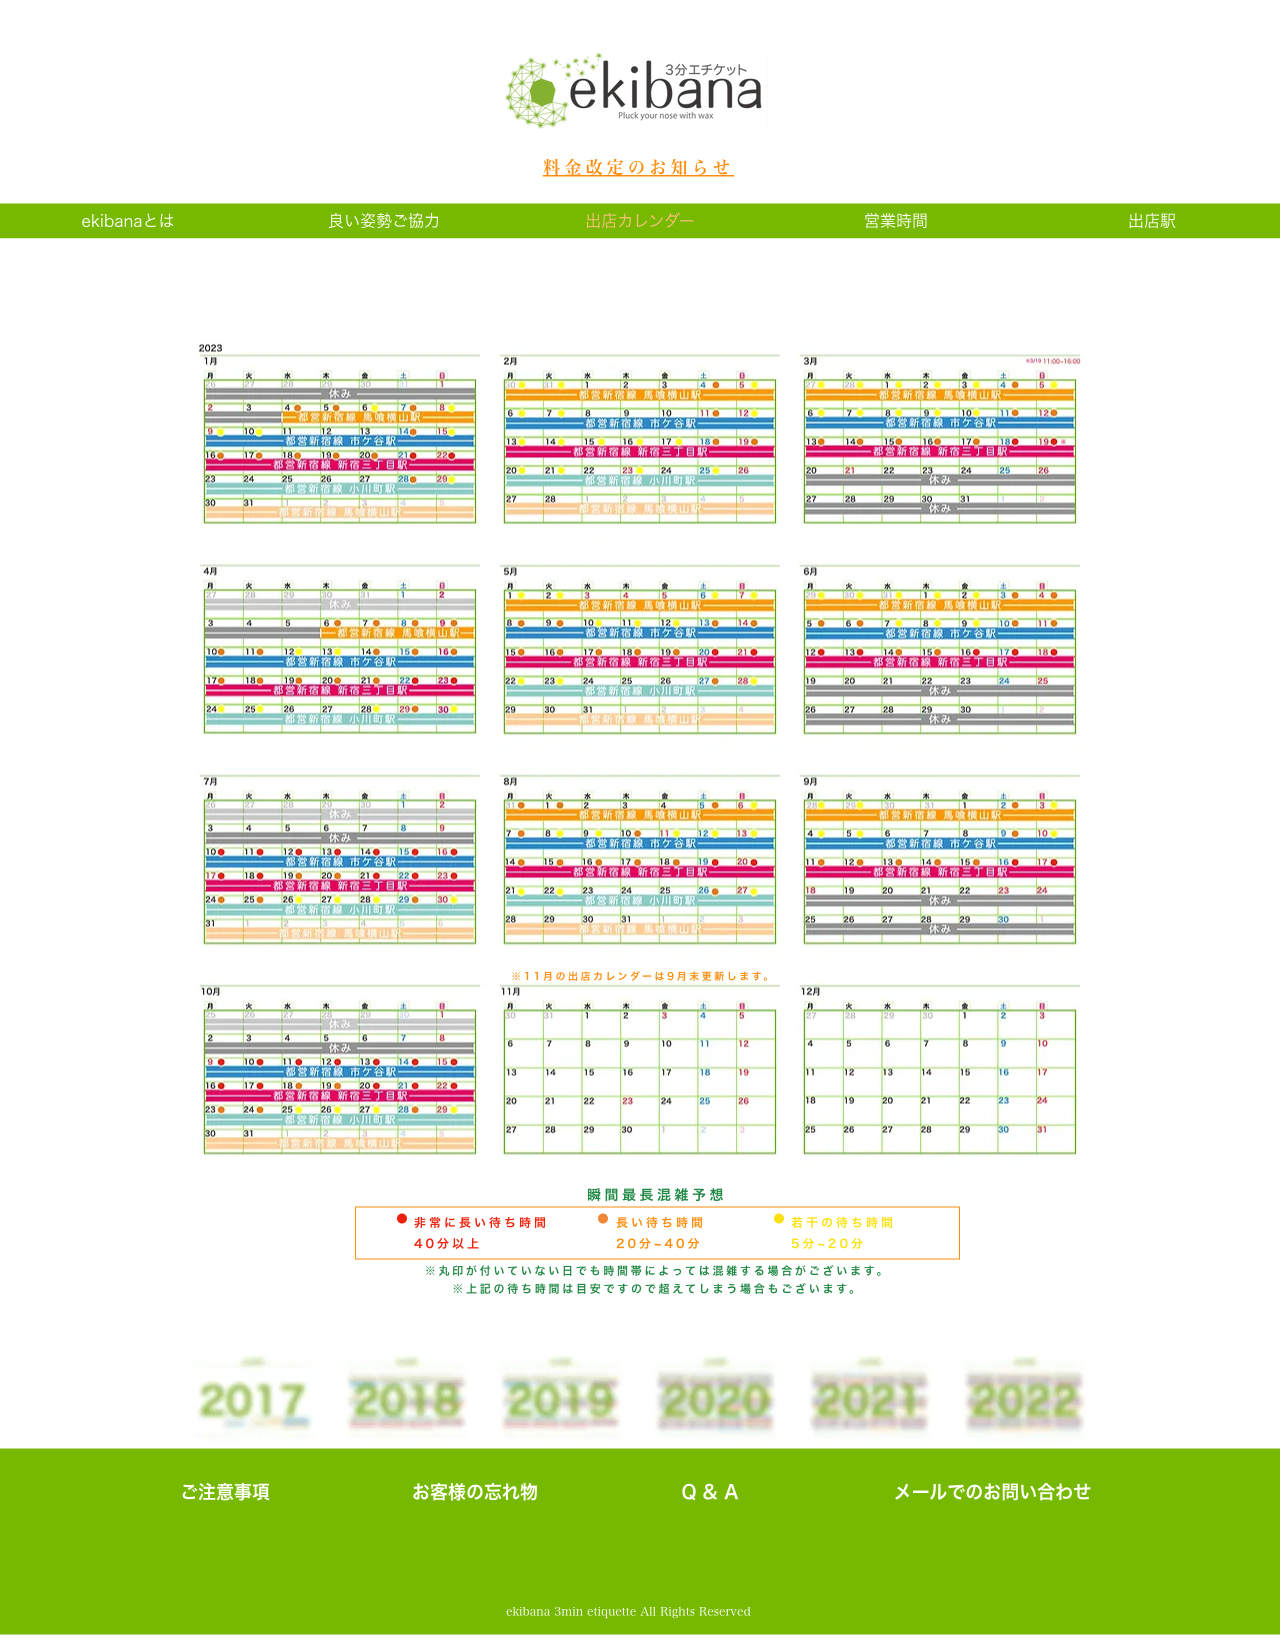
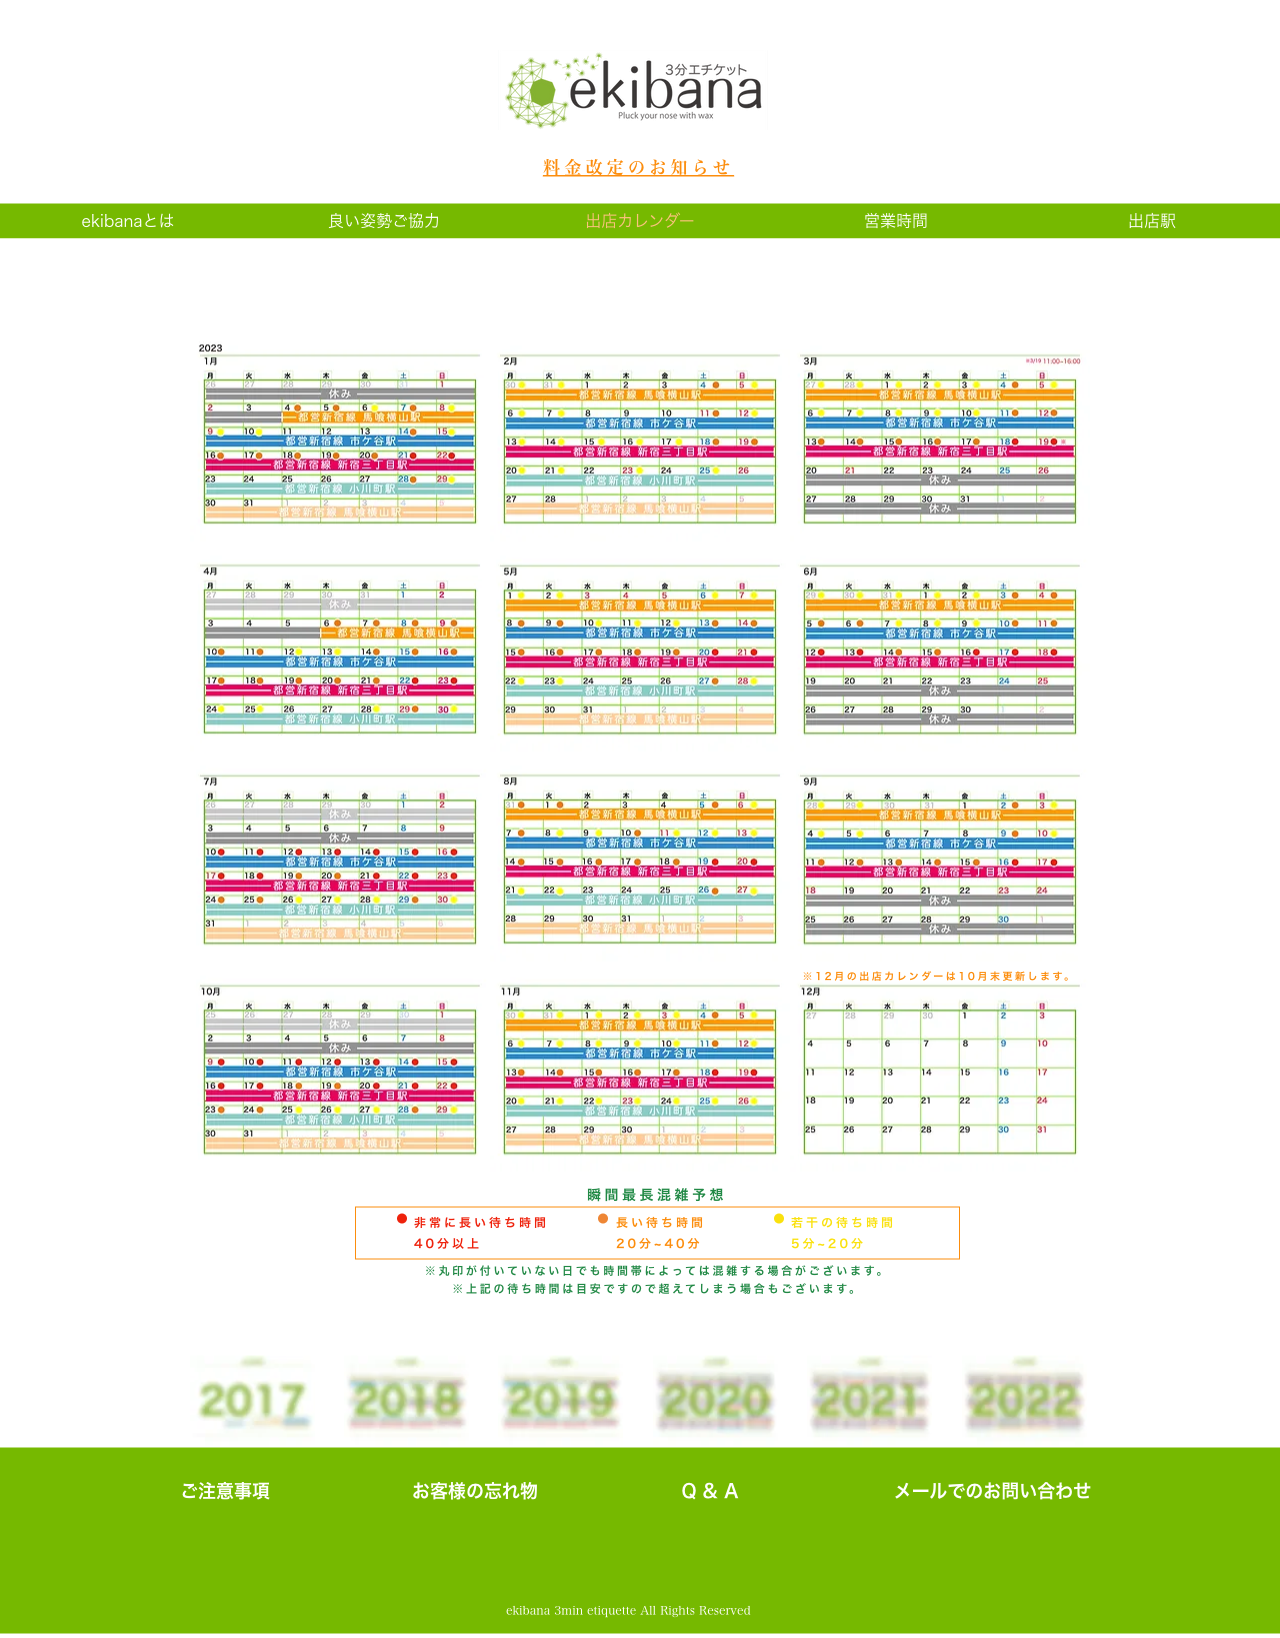
feat: add November of 2023 (#20)

diff --git a/hanage/schedules.ts b/hanage/schedules.ts
@@ -254,7 +254,34 @@ const schedules2023: SchedulesOfMonth = {
       from: "2023-10-30",
       to: "2023-10-31",
     },
-  ]
+  ],
+  11: [
+    {
+      station: stations.bakuroYokoyama,
+      from: "2023-11-01",
+      to: "2023-11-05",
+    },
+    {
+      station: stations.ichigaya,
+      from: "2023-11-06",
+      to: "2023-11-12",
+    },
+    {
+      station: stations.shinjukuSanchome,
+      from: "2023-11-13",
+      to: "2023-11-19",
+    },
+    {
+      station: stations.ogawamachi,
+      from: "2023-11-20",
+      to: "2023-11-26",
+    },
+    {
+      station: stations.bakuroYokoyama,
+      from: "2023-11-27",
+      to: "2023-11-30",
+    },
+  ],
 };
 
 const schedules: SchedulesOfYear = {
